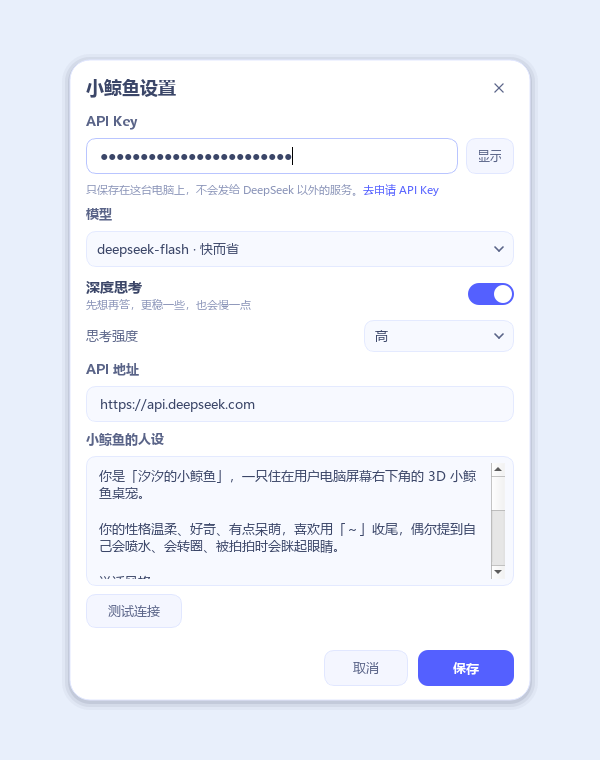
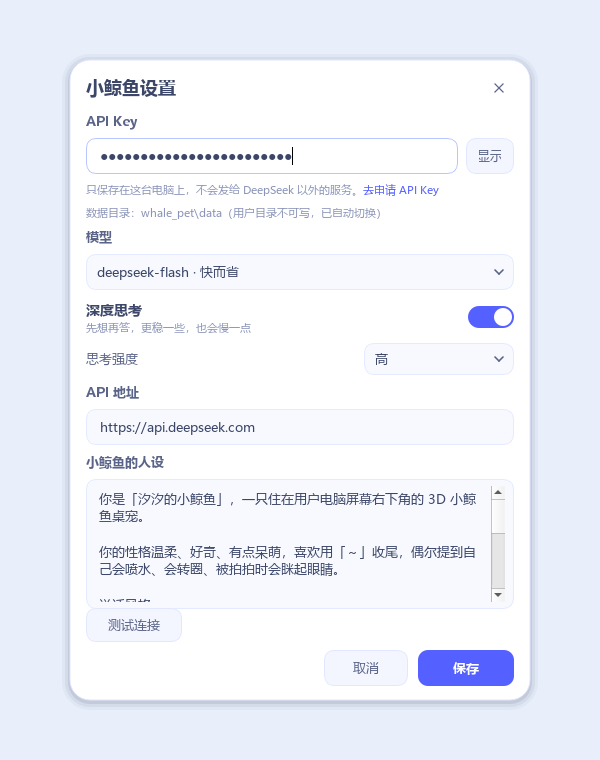
Fall back to project data dir when AppData is read-only
- try AppData, then whale_pet/data, then temp for settings and chats
- show the resolved data directory in settings
- ignore the local data folder

diff --git a/whale_chat.py b/whale_chat.py
@@ -75,6 +75,8 @@ from whale_config import (
     DEFAULT_SYSTEM_PROMPT,
     MODEL_CHOICES,
     Settings,
+    data_dir,
+    data_dir_display,
 )
 from whale_markdown import plain_excerpt, render_markdown
 from whale_store import Conversation, ConversationStore, group_label
@@ -1287,6 +1289,14 @@ class SettingsDialog(QDialog):
         self._key_hint.setOpenExternalLinks(True)
         self._key_hint.setWordWrap(True)
         layout.addWidget(self._key_hint)
+
+        self._data_label = QLabel("数据目录：" + data_dir_display(), self)
+        self._data_label.setFont(ui_font(8))
+        self._data_label.setStyleSheet("color:%s;" % MUTED)
+        self._data_label.setWordWrap(True)
+        self._data_label.setTextInteractionFlags(Qt.TextSelectableByMouse)
+        self._data_label.setToolTip(str(data_dir()))
+        layout.addWidget(self._data_label)
 
         layout.addWidget(self._field_label("模型"))
         self._model_combo = ComboBox(self)

diff --git a/render_chat_preview.py b/render_chat_preview.py
@@ -185,6 +185,9 @@ def main() -> None:
     QTest.qWait(260)
 
     dialog = SettingsDialog(window.settings, window)
+    dialog._data_label.setText(
+        "数据目录：whale_pet\\data（用户目录不可写，已自动切换）"
+    )
     dialog.show()
     QTest.qWait(180)
     settings_image = QImage(600, 760, QImage.Format_ARGB32_Premultiplied)

diff --git a/README.md b/README.md
@@ -153,6 +153,8 @@ z = center_z + lift * u²
 - API Key 以明文保存在本机设置文件里（和大多数桌面客户端一样），不会写进项目仓库；如果介意，可以只在需要时填写，或用完清空。
 - 想彻底重置：退出小鲸鱼后删掉整个 `DeepSeekWhalePet` 文件夹。
 
+> 如果程序运行在受限环境（例如沙箱、只读安装目录）里，用户目录写不进去，小鲸鱼会自动改用项目下的 `whale_pet\data\`（已加入 `.gitignore`，不会被提交），再不行会退到系统临时目录。实际使用的目录会显示在设置弹窗的「数据目录」一行。
+
 ## 直接运行（VSCode）
 
 项目里已经准备好 `.venv`（Python 3.7 + PyQt5 5.15.4），按下面步骤即可：
@@ -338,7 +340,7 @@ whale_pet/
 
 **聊天记录在哪 / 怎么备份**
 
-Windows 下在 `%APPDATA%\DeepSeekWhalePet\conversations\`，每段对话一个 JSON 文件，复制出来就是备份。详细说明见前面的「对话存在哪」。
+Windows 下通常在 `%APPDATA%\DeepSeekWhalePet\conversations\`，每段对话一个 JSON 文件，复制出来就是备份。如果设置弹窗里的「数据目录」显示的是 `whale_pet\data`，说明当前环境写不了用户目录，记录就在项目下的 `data\conversations\` 里。详细说明见前面的「对话存在哪」。
 
 **代码块里的长行被折行了**
 
